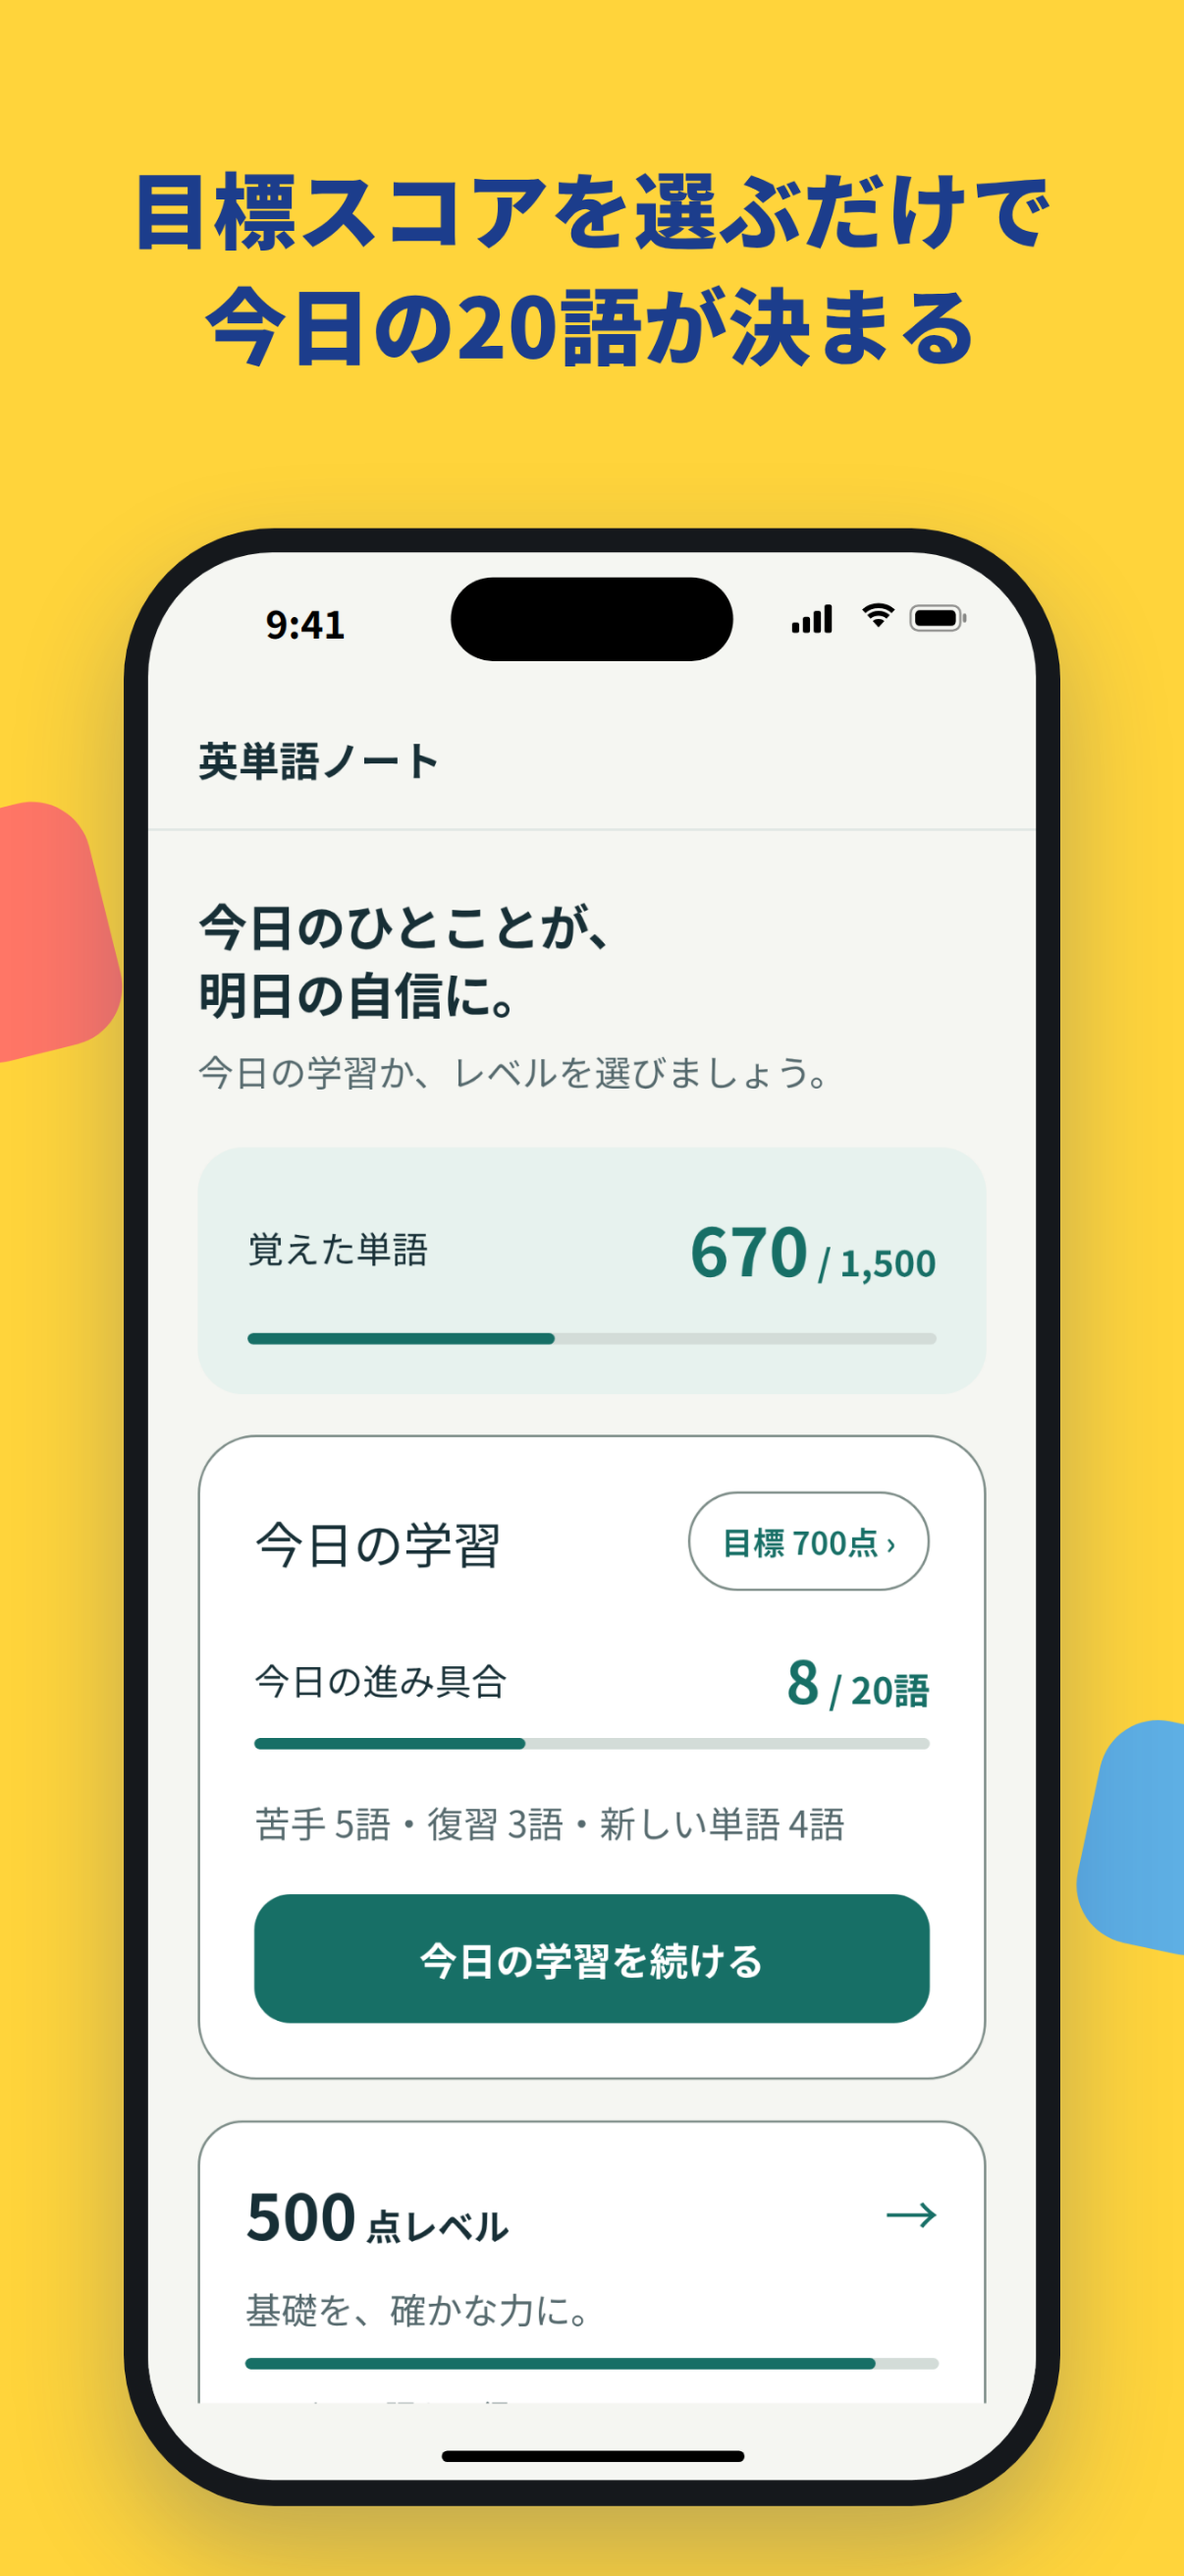
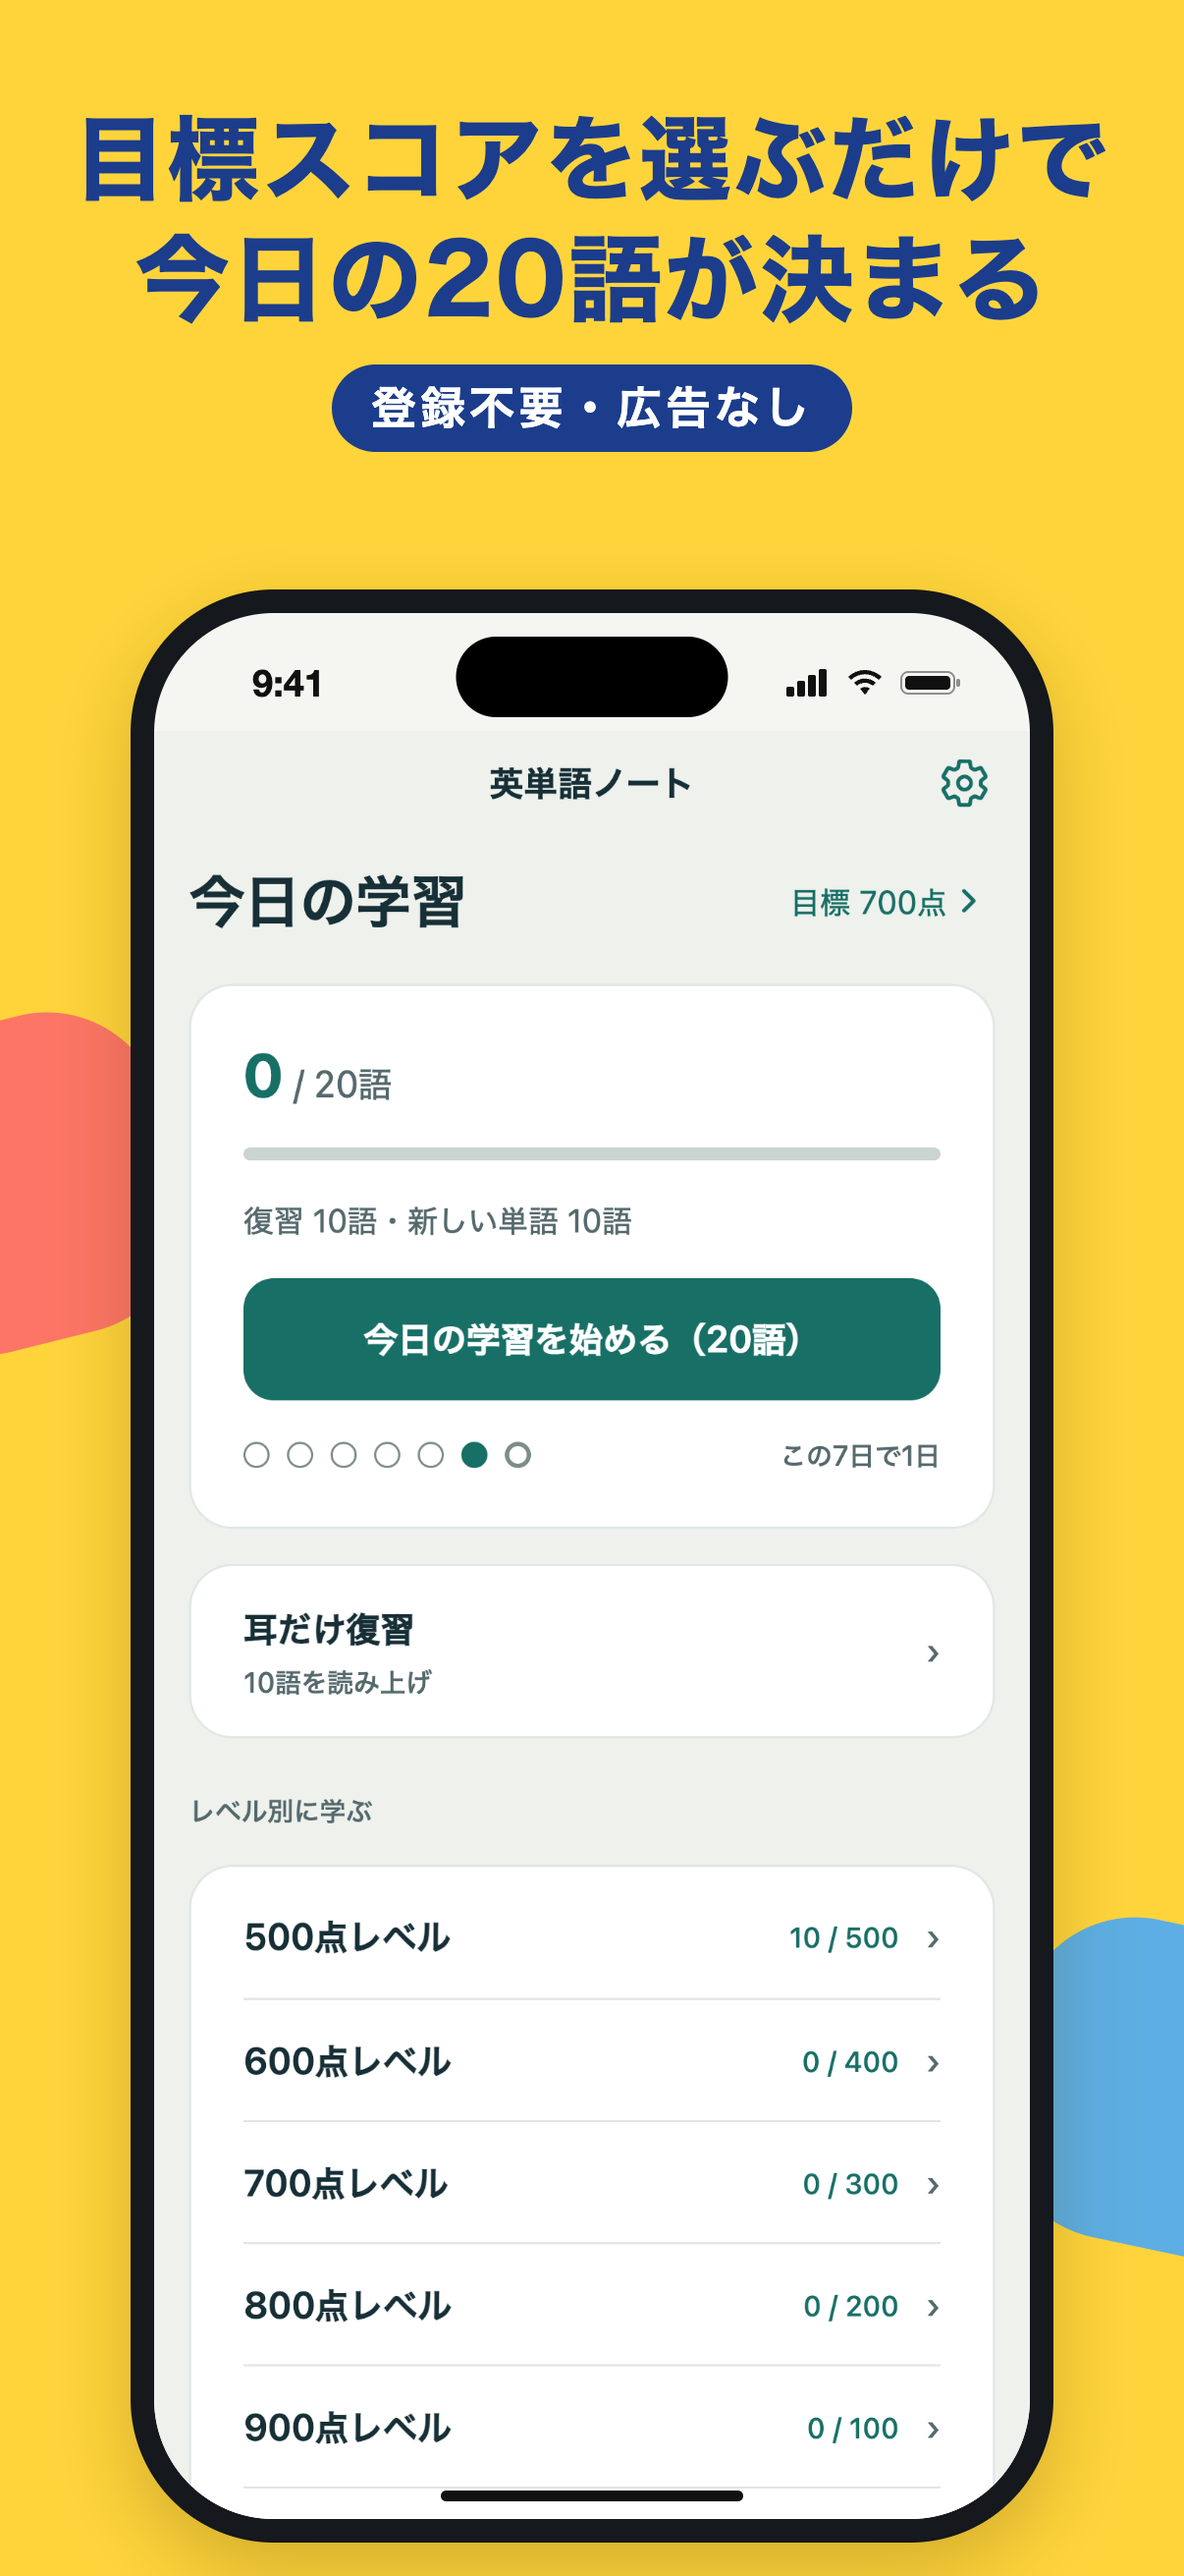
App Store のスクリーンショットと審査メモを 1.1.0 に合わせる
- スクリーンショット6枚を 1.1.0 の画面で作り直した（1206×2622）。見出しは README の案のとおり。1枚目に「登録不要・広告なし」の帯
- 作るためのスクリプト mobile/e2e/storeshots.mjs を追加。Web 版を撮り、見出しと iPhone の枠を付ける。1日目に学習してから時計を翌朝に進め、「復習10語・新しい単語10語＝20語」の画面を撮る
- appstore/README.md の審査メモを、App Store Connect に入れた 1.1.0 の文面にそろえた（取り消し・続きから・今日はここまで・耳だけ復習・マイ単語帳・設定の操作、マイ単語帳は端末の中だけで共有しないこと、背景オーディオは耳だけ復習のためだけに使うこと）
- docs/NEXT_ACTIONS.md の済んだ項目に印を付けた

diff --git a/docs/NEXT_ACTIONS.md b/docs/NEXT_ACTIONS.md
@@ -24,9 +24,9 @@
    eas build --platform ios --profile production
    eas submit --platform ios --latest
    ```
-3. App Store Connect で 1.1.0 を作り、[appstore/README.md](../appstore/README.md) の「このバージョンの新機能（1.1.0）」「説明」「プロモーション用テキスト」「キーワード」を貼る。
-4. スクリーンショットを撮り直す（6 枚、1206×2622）。素材は `cd mobile && npm run build:web && npm run shots -- ../appstore/raw`。
-5. 審査メモは 1.0 のものを流用し、「続きから」「耳だけ復習」「取り消し」の操作を 1 行ずつ足す。
+3. （2026-10-26 済み）App Store Connect で 1.1.0 を作り、[appstore/README.md](../appstore/README.md) の「このバージョンの新機能（1.1.0）」「説明」「プロモーション用テキスト」「キーワード」を貼る。
+4. （2026-10-26 済み。App Store Connect へのアップロードはオーナー）スクリーンショットを撮り直す（6 枚、1206×2622）。作り方は [appstore/README.md](../appstore/README.md) の「作り方」（`node e2e/storeshots.mjs ../appstore/screenshots`）。
+5. （2026-10-26 済み）審査メモは 1.0 のものを流用し、「続きから」「耳だけ復習」「取り消し」の操作を 1 行ずつ足す。
 
 ## 3. 続けて価値が出る開発（優先順）
 
